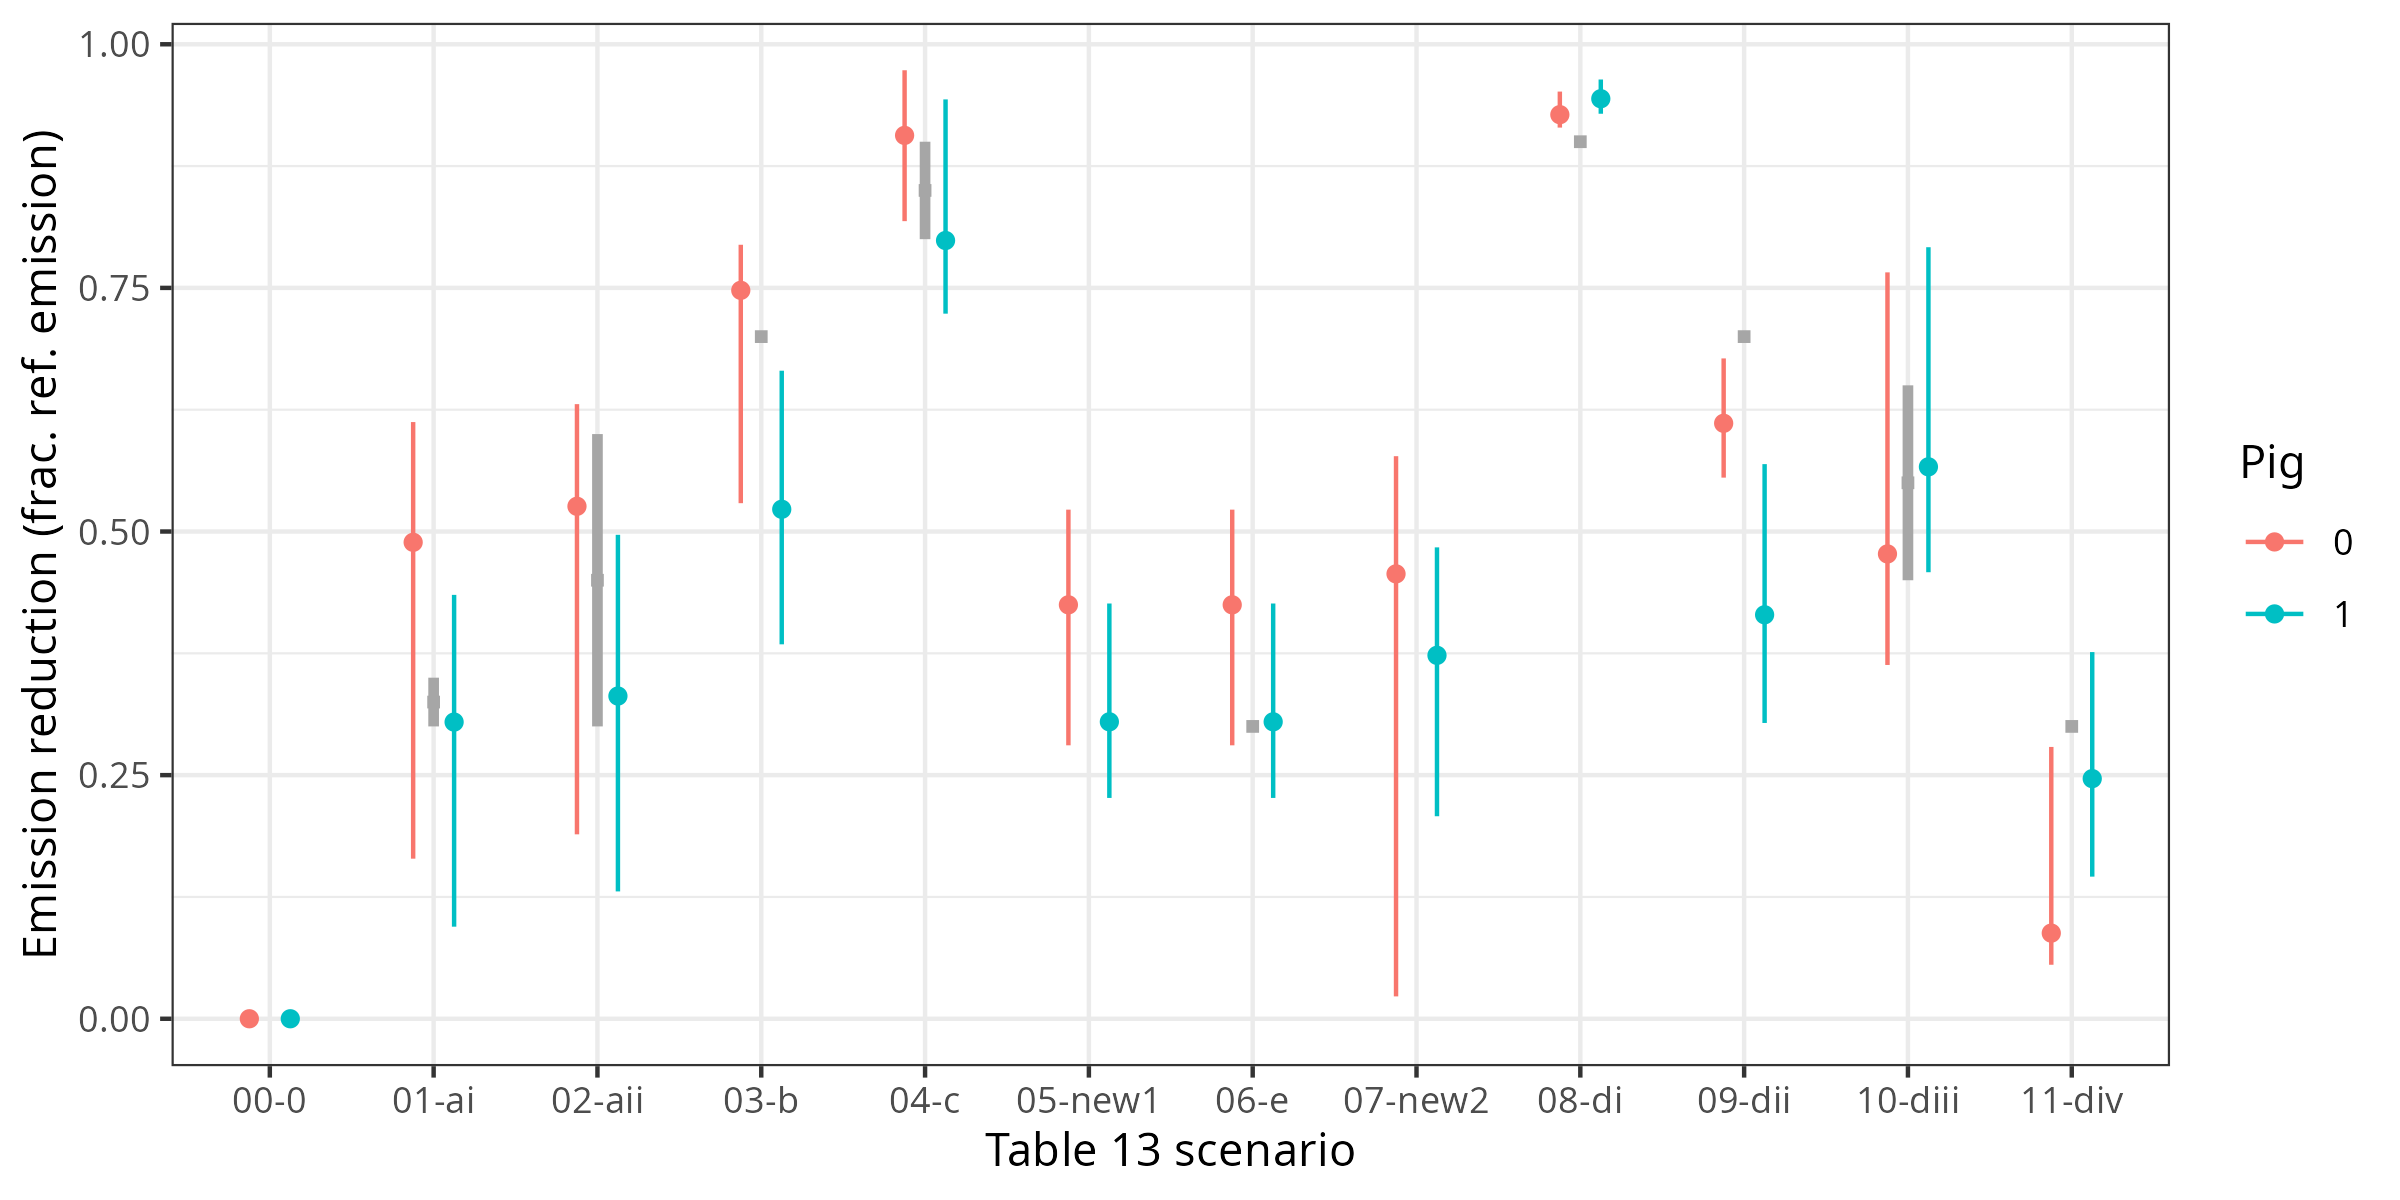
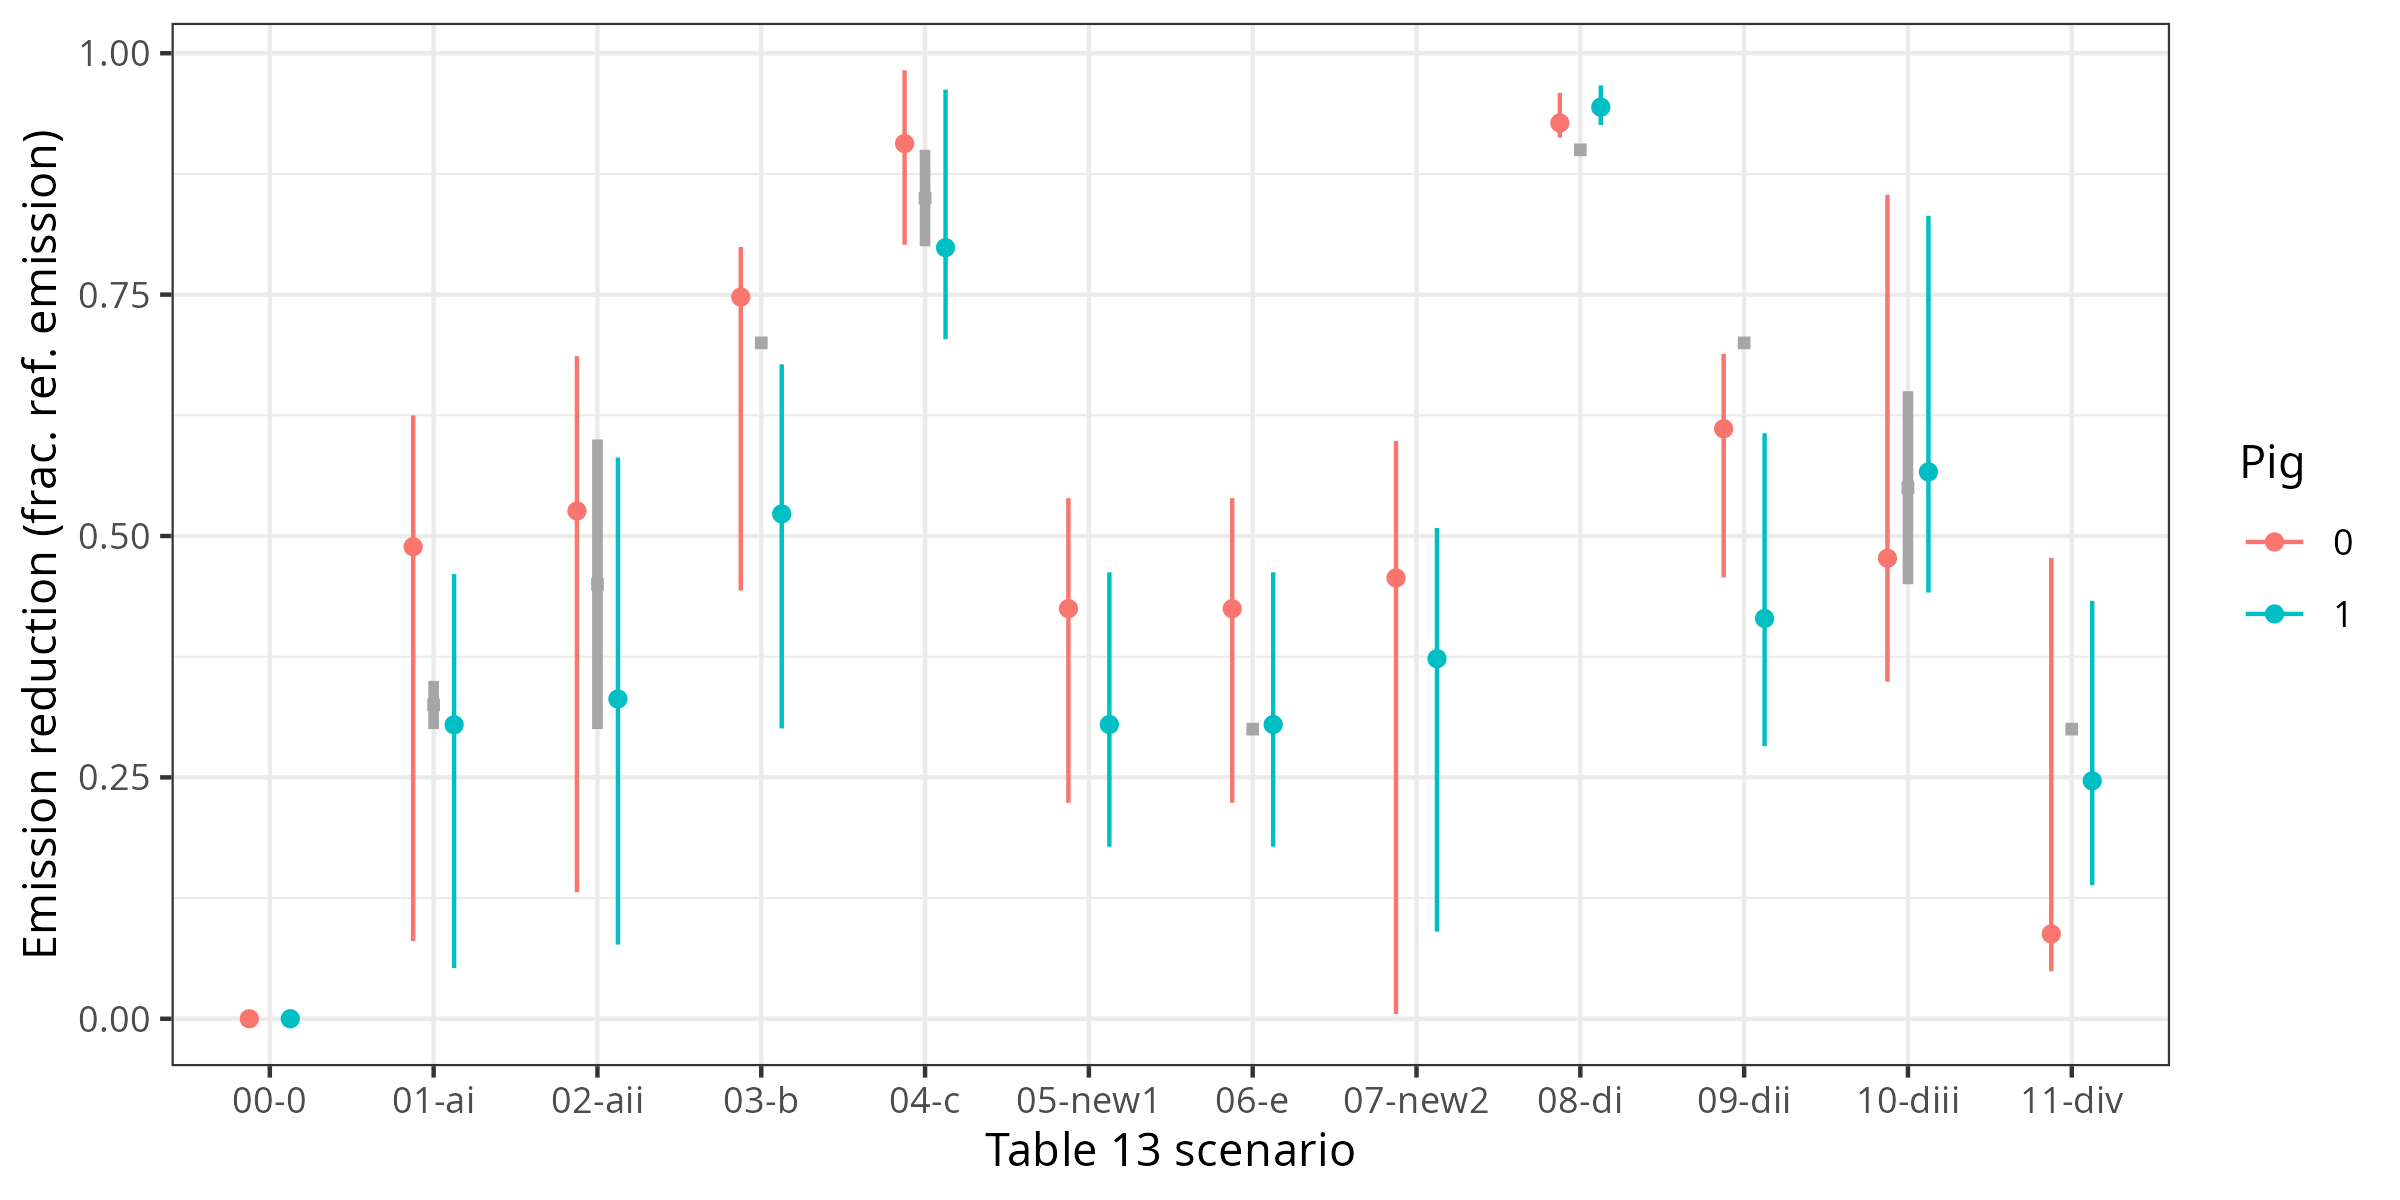
use 95% CI, rm unused input columns, other tweaks

diff --git a/reductions-ALFAM2/log/pred_emis.md b/reductions-ALFAM2/log/pred_emis.md
@@ -1,7 +1,7 @@
 ---
 title: 'ALFAM2 predictions'
 output: pdf_document
-date: "21 April, 2025 Apr:04"
+date: "28 April, 2025 Apr:04"
 ---
 
 Use conf.int = 'all' to get results from all 100 parameter sets to compare to reference scenario with uncertainty
